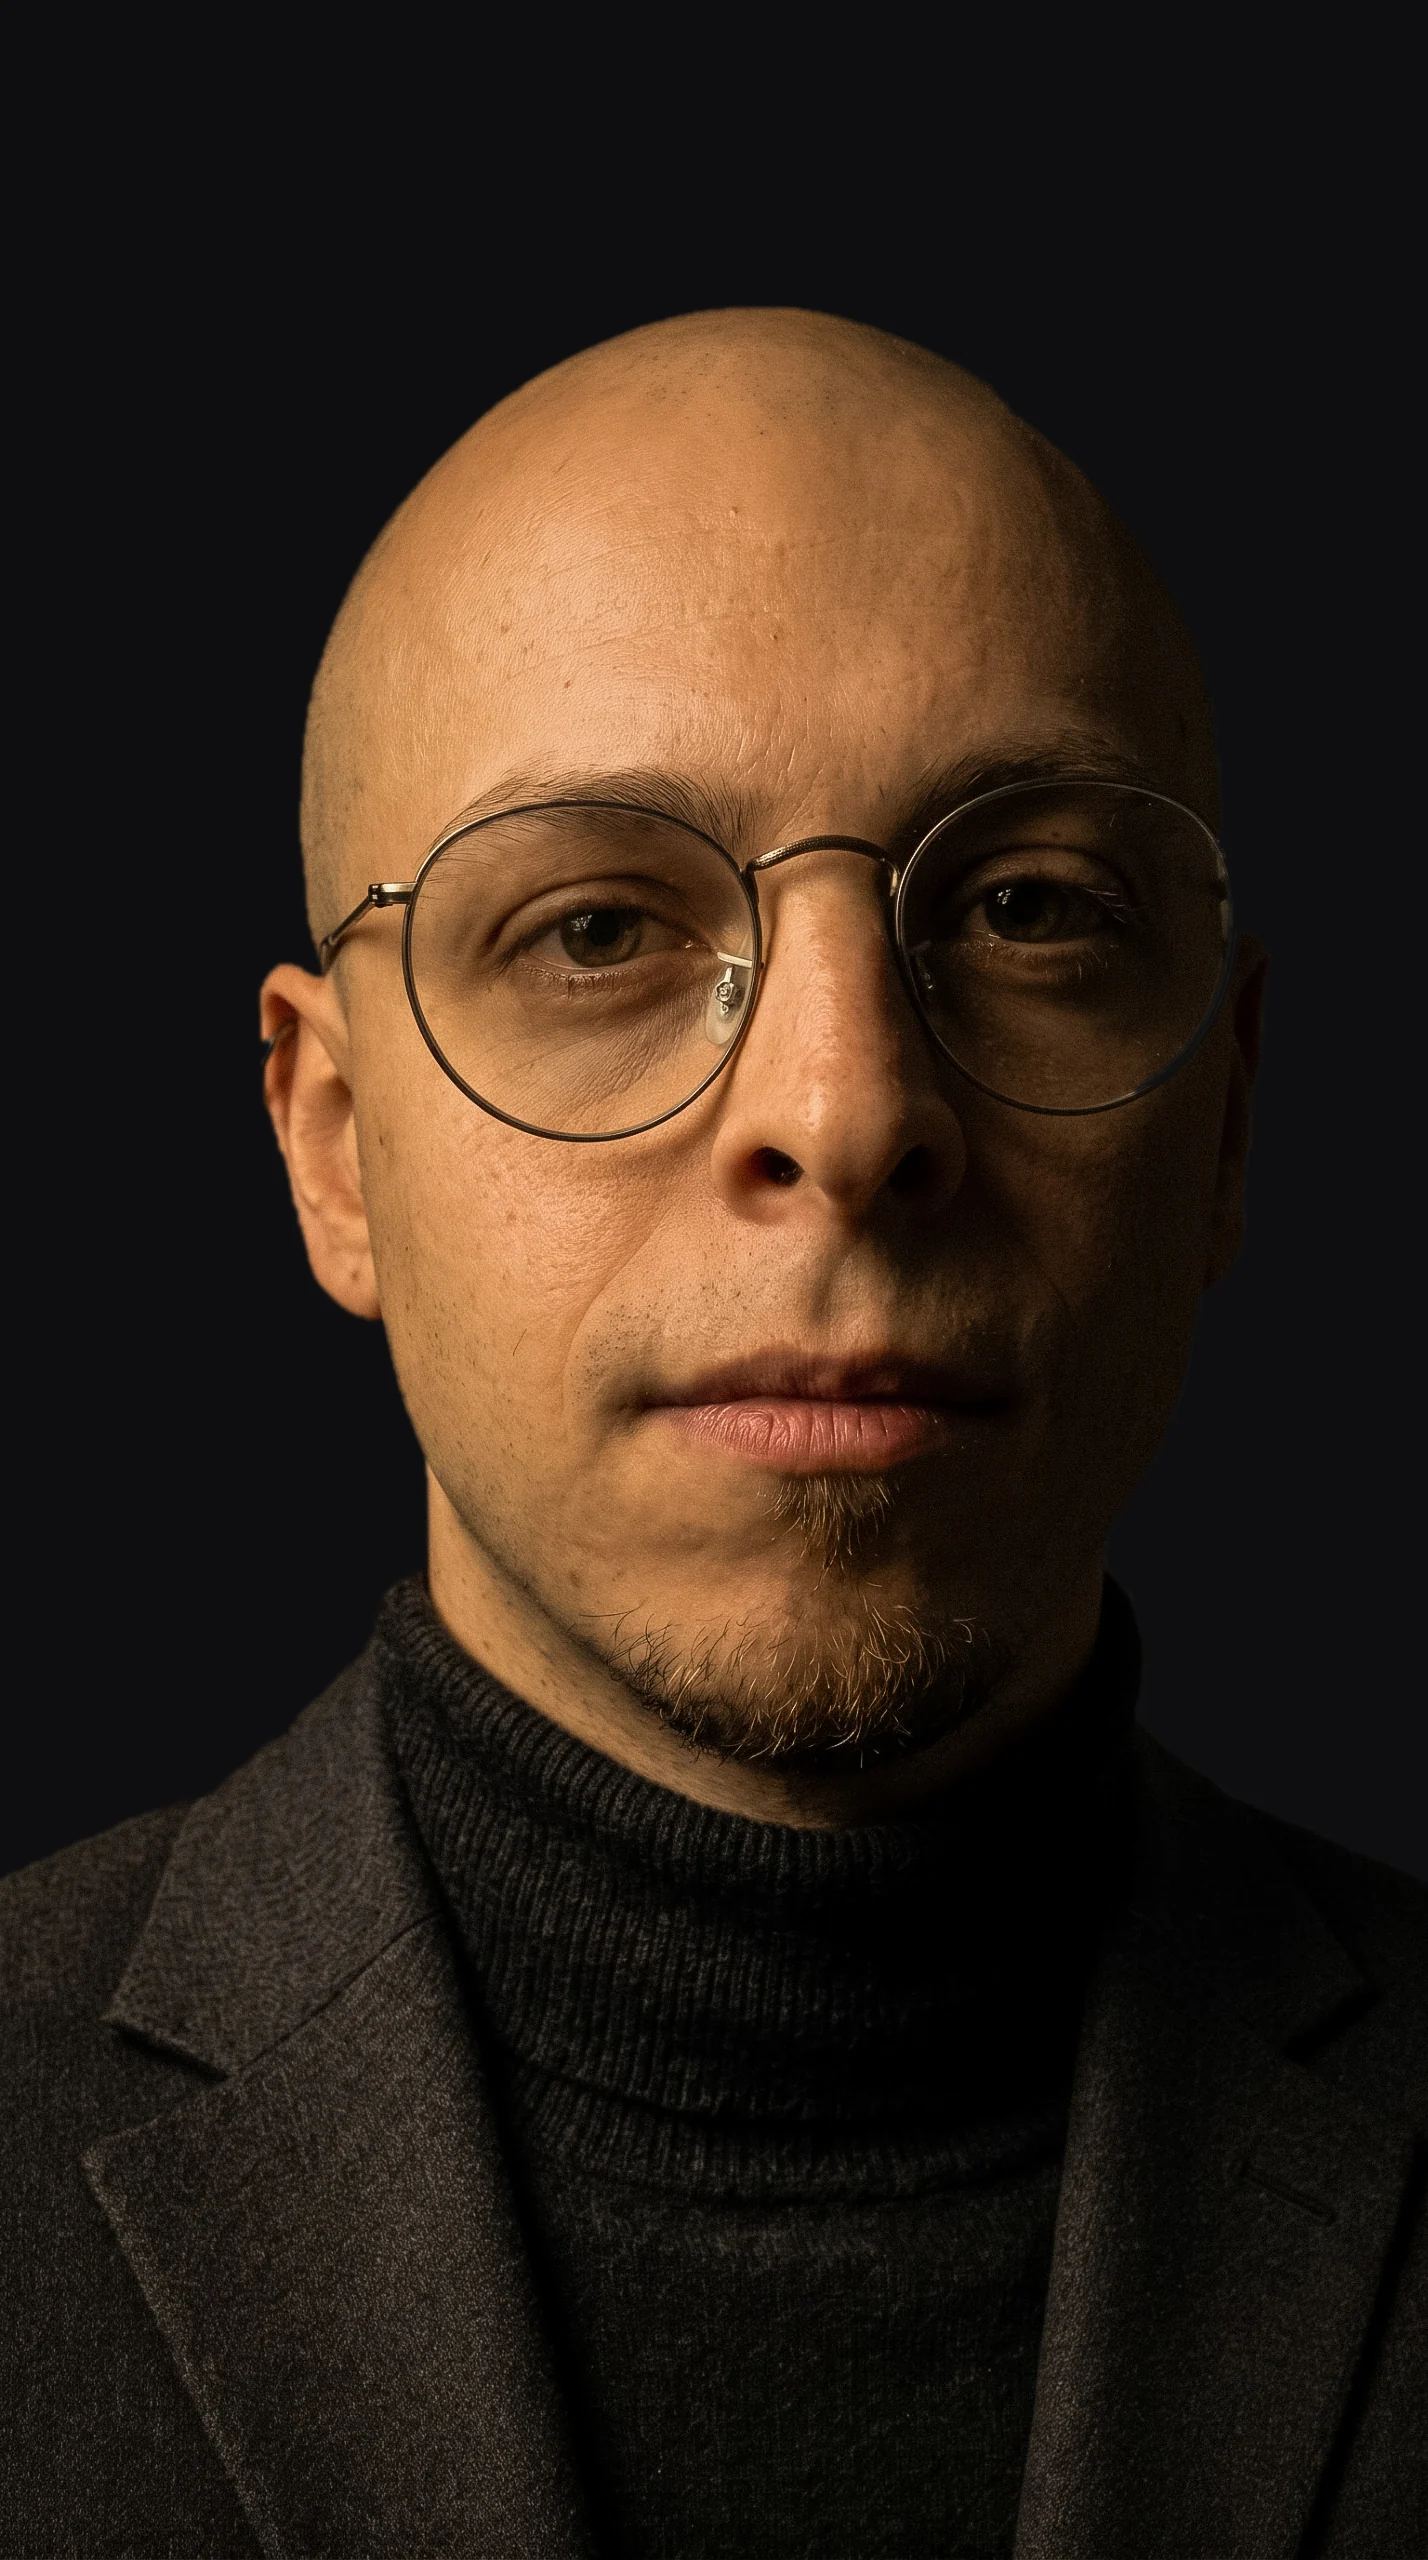
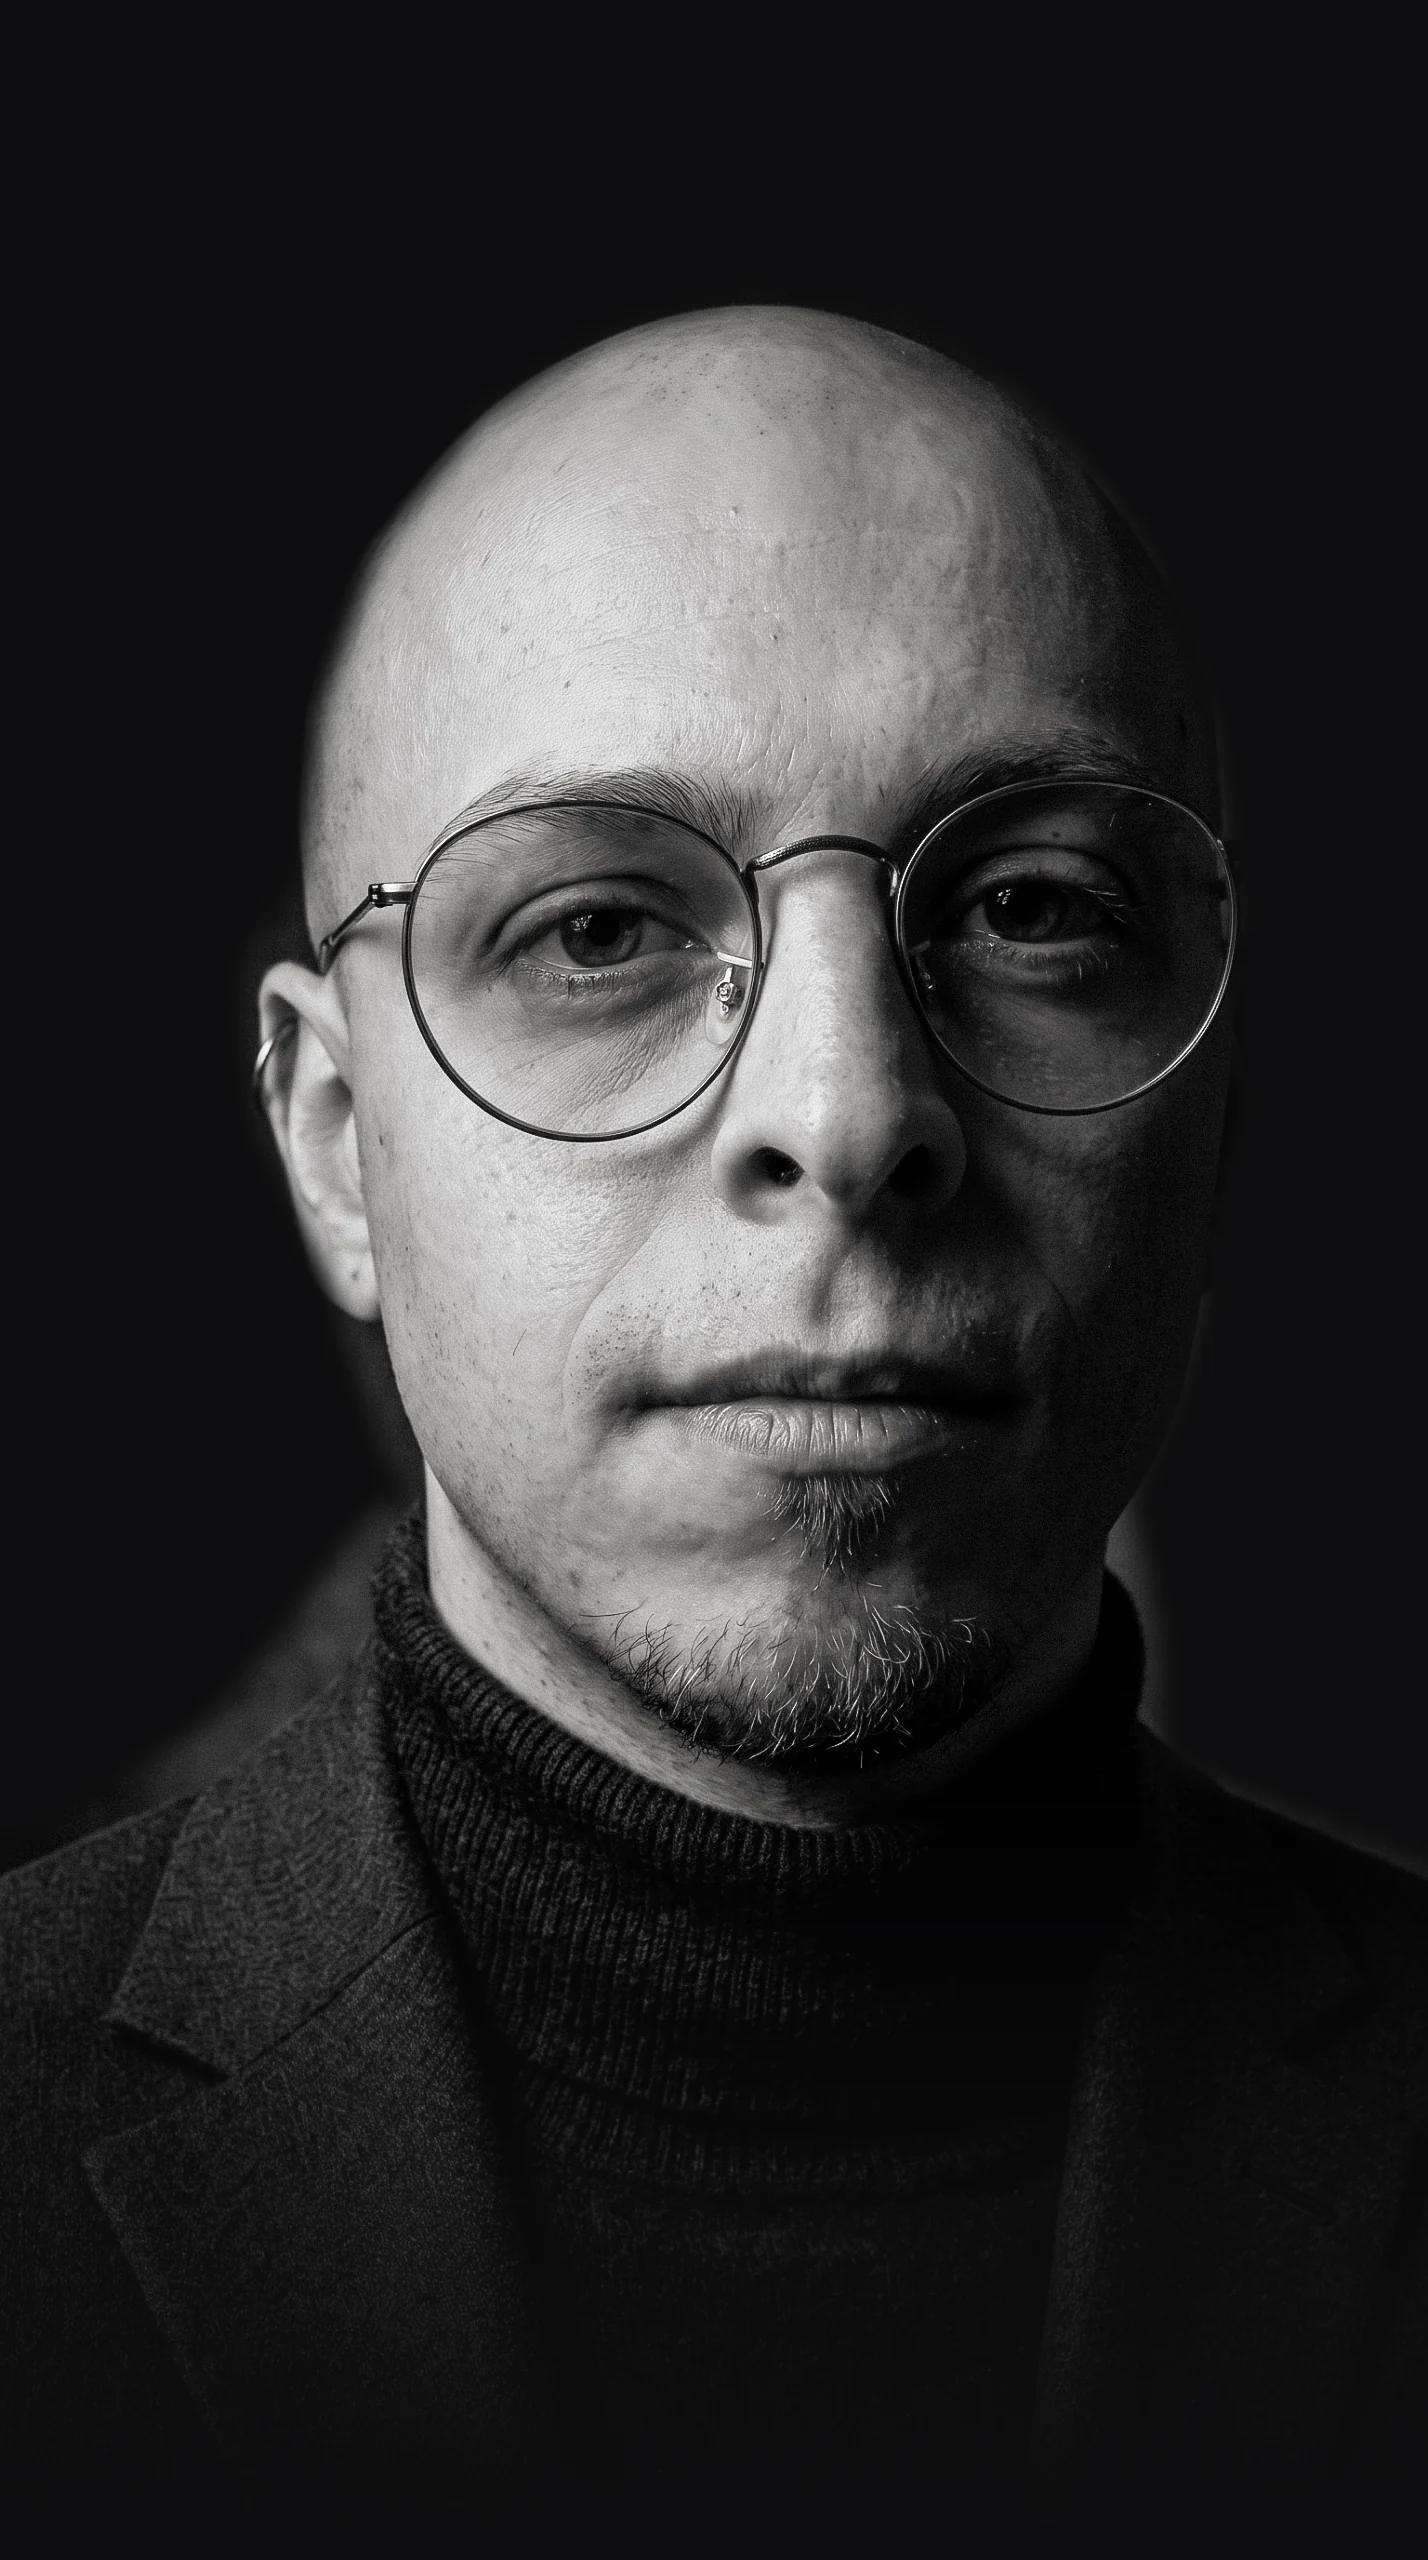
Ritratto in bianco e nero scontornato su tutto il sito
- photo.webp e photo-entry-mobile.webp dal nuovo scatto in bianco e nero, scontornato sul nero del sito con bordi sfumati
- Immagine di anteprima della home rigenerata con il nuovo ritratto
- Versioni dei file aggiornate (photo v40, ingresso mobile v7)

Claude-Session: https://claude.ai/code/session_013V1PHsXmyXHJ8mUMRufPdc

diff --git a/index.html b/index.html
@@ -87,7 +87,7 @@
 
 <div class="editorial-shell"><main class="editorial-content">
 <section class="m-entry" aria-label="Ingresso" data-i18n-aria="entry_label">
-  <img class="m-entry-photo" src="photo-entry-mobile.webp?v=6" alt="" width="1428" height="2560" fetchpriority="high">
+  <img class="m-entry-photo" src="photo-entry-mobile.webp?v=7" alt="" width="1428" height="2560" fetchpriority="high">
   <a class="m-entry-link" href="#profilo"><span class="m-entry-name" aria-hidden="true">Nicolò Forcolin</span><span class="visually-hidden" data-i18n="scroll_btn">Entra nel sito</span><span class="entry-mark" aria-hidden="true"><span class="entry-line"></span><span class="entry-dot"></span></span></a>
 </section>
 <section class="hero" id="profilo" aria-labelledby="hero-name">
@@ -98,7 +98,7 @@
 
     </div>
     <div class="hero-photo-frame">
-      <img class="hero-portrait" id="avatarPhoto" src="photo.webp?v=39" alt="Nicolò Forcolin" width="1428" height="1900" fetchpriority="high">
+      <img class="hero-portrait" id="avatarPhoto" src="photo.webp?v=40" alt="Nicolò Forcolin" width="1428" height="1900" fetchpriority="high">
     </div>
   </div>
 </section>

diff --git a/tests/site-regression.test.js b/tests/site-regression.test.js
@@ -70,8 +70,8 @@ assert(home.includes('id="heroIntro"'), 'Hero intro paragraph missing');
 for (const language of ['it', 'en']) assert(dictionaries[language].includes('hero_intro:'), language + ': hero intro missing');
 assert(home.includes('data-i18n="skip_to_content"'), 'Skip link must be translated');
 assert(!home.includes('hero-cta-row'), 'The redundant hero links were removed');
-assert(home.includes('src="photo.webp?v=39"'), 'New portrait must be displayed');
-assert(home.includes('src="photo-entry-mobile.webp?v=6"') && fs.existsSync(path.join(root, 'photo-entry-mobile.webp')), 'The mobile entry screen uses the mobile portrait');
+assert(home.includes('src="photo.webp?v=40"'), 'New portrait must be displayed');
+assert(home.includes('src="photo-entry-mobile.webp?v=7"') && fs.existsSync(path.join(root, 'photo-entry-mobile.webp')), 'The mobile entry screen uses the mobile portrait');
 assert(!home.includes('class="info-dialog"'), 'Project dialogs were replaced by pages');
 
 assert(read('rag-aziendale.html').includes('data-i18n="c1_summary"'), 'RAG summary must remain');
